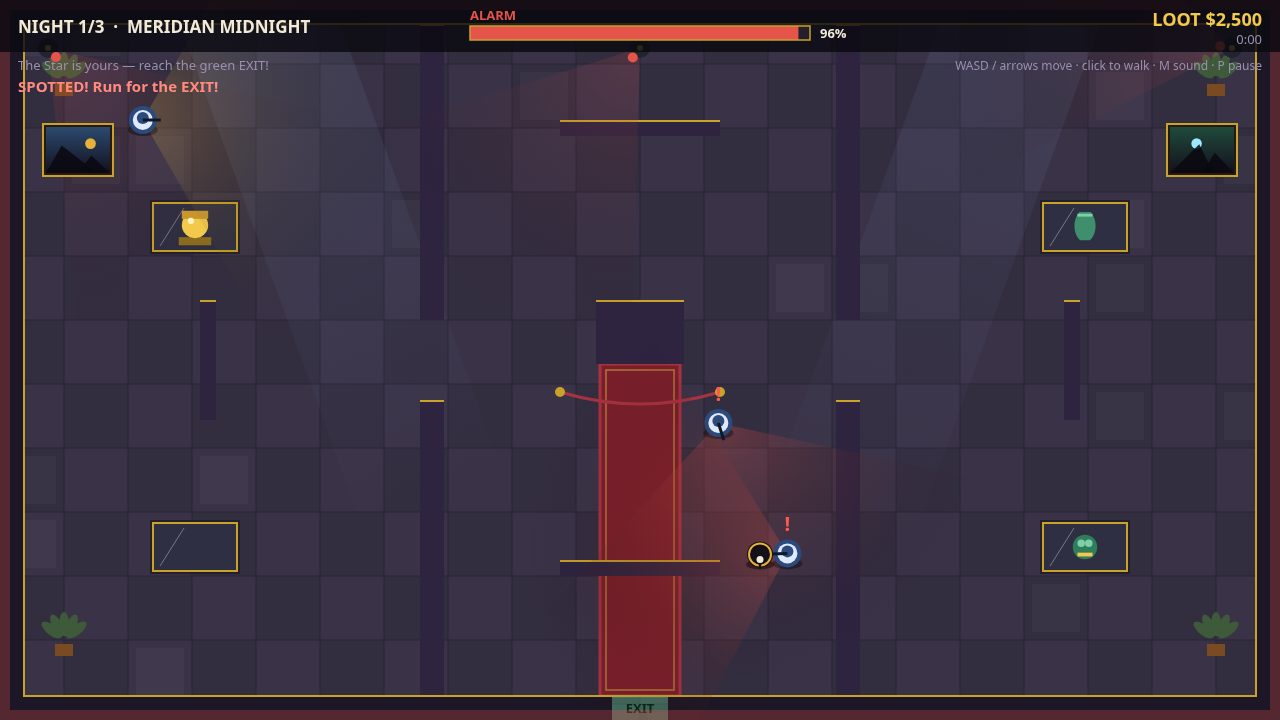
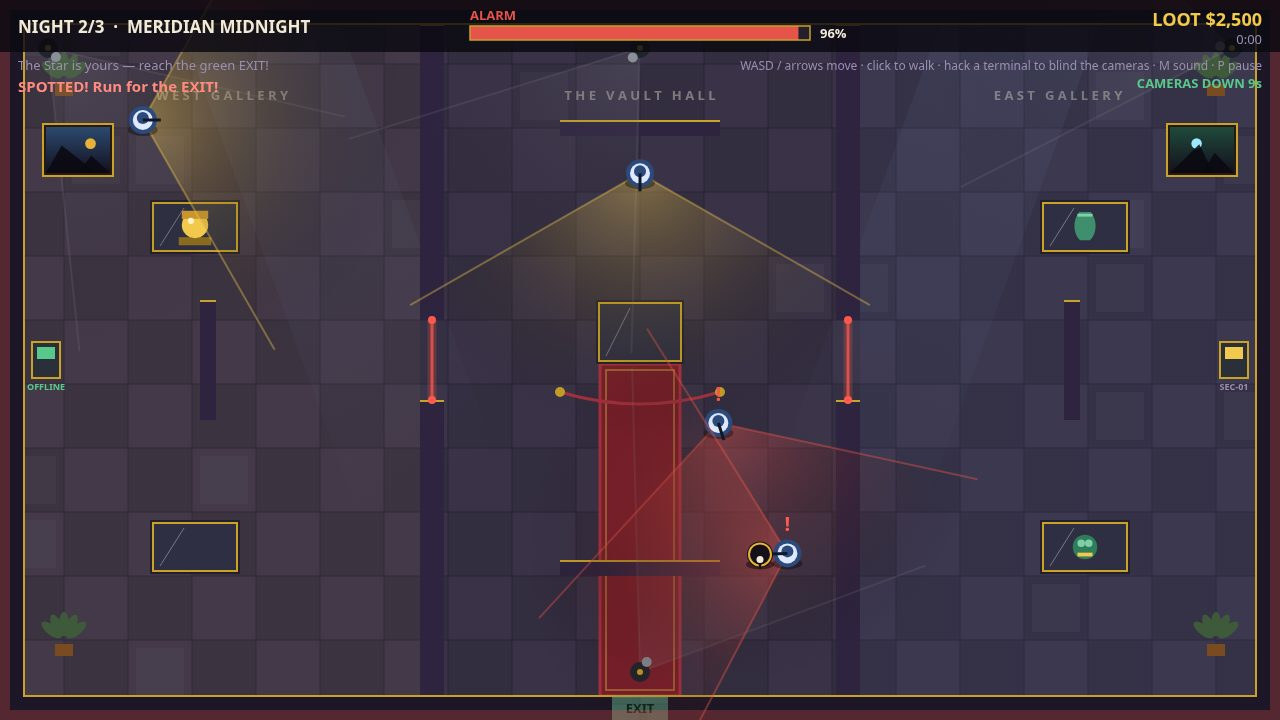
v2: security terminals, named galleries, night-2 chase shot

diff --git a/game/src/render.js b/game/src/render.js
@@ -1,7 +1,7 @@
 // Meridian Midnight: everything the player sees, drawn on one canvas.
 // The room, the cones, the loot, the HUD and every screen, all in 2D.
 
-import { ALARM, CAMERA, FIELD, FONT, GUARD, PALETTE } from './config.js';
+import { ALARM, CAMERA, FIELD, FONT, GUARD, PALETTE, TERMINAL } from './config.js';
 import { SCREEN_BUSTED, SCREEN_CLEAR, SCREEN_PAUSED, SCREEN_PLAY, SCREEN_TITLE, SCREEN_WIN } from './world.js';
 import { mulberry32 } from './random.js';
 
@@ -180,13 +180,13 @@ function drawGuard(ctx, guard, time) {
   }
 }
 
-function drawCamera(ctx, cam) {
-  drawCone(ctx, cam.x, cam.y, cam.angle, CAMERA.coneHalf, CAMERA.coneRange, PALETTE.coneCamera);
+function drawCamera(ctx, cam, down) {
+  drawCone(ctx, cam.x, cam.y, cam.angle, CAMERA.coneHalf, CAMERA.coneRange, down ? PALETTE.coneCameraDown : PALETTE.coneCamera);
   ctx.fillStyle = '#20242e';
   ctx.beginPath();
   ctx.arc(cam.x, cam.y, 10, 0, Math.PI * 2);
   ctx.fill();
-  ctx.fillStyle = cam.seeing ? '#ff5a4e' : '#e5534b';
+  ctx.fillStyle = down ? '#8a8f98' : cam.seeing ? '#ff5a4e' : '#e5534b';
   ctx.beginPath();
   ctx.arc(cam.x + Math.cos(cam.angle) * 12, cam.y + Math.sin(cam.angle) * 12, 5, 0, Math.PI * 2);
   ctx.fill();
@@ -194,6 +194,31 @@ function drawCamera(ctx, cam) {
   ctx.beginPath();
   ctx.arc(cam.x, cam.y, 3, 0, Math.PI * 2);
   ctx.fill();
+  // No OFFLINE label here: the grey cone and the HUD's CAMERAS DOWN badge
+  // already say it, and a label under the top cameras would sit on the
+  // objective line and under the bottom camera on the EXIT sign.
+}
+
+/** A security terminal on the wall: amber while live, green once hacked. */
+function drawTerminal(ctx, terminal, time) {
+  const hacked = terminal.hacked;
+  ctx.fillStyle = PALETTE.terminal;
+  ctx.fillRect(terminal.x - 14, terminal.y - 18, 28, 36);
+  ctx.strokeStyle = '#c9a227';
+  ctx.lineWidth = 2;
+  ctx.strokeRect(terminal.x - 14, terminal.y - 18, 28, 36);
+  ctx.fillStyle = hacked ? PALETTE.terminalHacked : PALETTE.terminalScreen;
+  ctx.fillRect(terminal.x - 9, terminal.y - 13, 18, 12);
+  if (!hacked && Math.sin(time * 4) > 0) {
+    ctx.fillStyle = '#ff5a4e';
+    ctx.beginPath();
+    ctx.arc(terminal.x + 8, terminal.y + 8, 2.5, 0, Math.PI * 2);
+    ctx.fill();
+  }
+  ctx.fillStyle = hacked ? PALETTE.terminalHacked : PALETTE.muted;
+  ctx.font = `bold 9px ${FONT}`;
+  ctx.textAlign = 'center';
+  ctx.fillText(hacked ? 'OFFLINE' : 'SEC-01', terminal.x, terminal.y + 30);
 }
 
 function drawThief(ctx, world, time) {
@@ -229,6 +254,13 @@ function drawThief(ctx, world, time) {
     ctx.arc(t.x, t.y, 22, -Math.PI / 2, -Math.PI / 2 + (t.crack / 1.6) * Math.PI * 2);
     ctx.stroke();
   }
+  if (t.hack > 0) {
+    ctx.strokeStyle = PALETTE.terminalHacked;
+    ctx.lineWidth = 4;
+    ctx.beginPath();
+    ctx.arc(t.x, t.y, 22, -Math.PI / 2, -Math.PI / 2 + (t.hack / TERMINAL.hackSeconds) * Math.PI * 2);
+    ctx.stroke();
+  }
 }
 
 function drawRoom(ctx, world, time) {
@@ -259,6 +291,17 @@ function drawRoom(ctx, world, time) {
     ctx.lineTo(FIELD.width, y);
     ctx.stroke();
   }
+  // The three rooms read apart: warm west gallery, cool east gallery.
+  ctx.fillStyle = PALETTE.zoneWest;
+  ctx.fillRect(24, 24, 396, 672);
+  ctx.fillStyle = PALETTE.zoneEast;
+  ctx.fillRect(860, 24, 396, 672);
+  ctx.fillStyle = 'rgba(242, 234, 216, 0.4)';
+  ctx.font = `bold 13px ${FONT}`;
+  ctx.textAlign = 'center';
+  ctx.fillText('W E S T   G A L L E R Y', 222, 100);
+  ctx.fillText('T H E   V A U L T   H A L L', 640, 100);
+  ctx.fillText('E A S T   G A L L E R Y', 1058, 100);
   // Red carpet from the entrance to the diamond case.
   ctx.fillStyle = PALETTE.carpet;
   ctx.fillRect(600, 364, 80, 332);
@@ -398,6 +441,11 @@ function drawHud(ctx, world) {
   const mins = Math.floor(world.time / 60);
   const secs = Math.floor(world.time % 60);
   ctx.fillText(`${mins}:${String(secs).padStart(2, '0')}`, 1262, 44);
+  if (world.camerasDown > 0) {
+    ctx.fillStyle = PALETTE.terminalHacked;
+    ctx.font = `bold 13px ${FONT}`;
+    ctx.fillText(`CAMERAS DOWN ${Math.ceil(world.camerasDown)}s`, 1262, 88);
+  }
   // Objective and messages.
   const diamond = world.loot.find((l) => l.kind === 'diamond');
   ctx.textAlign = 'left';
@@ -413,7 +461,7 @@ function drawHud(ctx, world) {
   ctx.fillStyle = PALETTE.muted;
   ctx.font = `12px ${FONT}`;
   ctx.textAlign = 'right';
-  ctx.fillText('WASD / arrows move · click to walk · M sound · P pause', 1262, 70);
+  ctx.fillText('WASD / arrows move · click to walk · hack a terminal to blind the cameras · M sound · P pause', 1262, 70);
 }
 
 function drawParticles(ctx, world) {
@@ -493,7 +541,8 @@ export function render(ctx, world, time, best) {
   ctx.clearRect(0, 0, FIELD.width, FIELD.height);
   drawRoom(ctx, world, time);
   drawLasers(ctx, world, time);
-  for (const cam of world.cameras) drawCamera(ctx, cam);
+  for (const terminal of world.terminals) drawTerminal(ctx, terminal, time);
+  for (const cam of world.cameras) drawCamera(ctx, cam, world.camerasDown > 0);
   for (const loot of world.loot) drawLoot(ctx, loot, time);
   for (const guard of world.guards) drawGuard(ctx, guard, time);
   drawThief(ctx, world, time);
@@ -525,7 +574,7 @@ export function render(ctx, world, time, best) {
     ctx.fillText('One thief. One diamond. Three nights in the Meridian Museum.', FIELD.width / 2, 375);
     ctx.fillStyle = PALETTE.text;
     ctx.font = `17px ${FONT}`;
-    ctx.fillText('Dodge the guards’ cones, slip past the cameras, crack the case — and vanish.', FIELD.width / 2, 410);
+    ctx.fillText('Dodge the guards’ cones, hack a terminal to blind the cameras, crack the case — and vanish.', FIELD.width / 2, 410);
     ctx.fillStyle = PALETTE.gold;
     ctx.font = `bold 20px ${FONT}`;
     ctx.fillText('Press ENTER to begin the heist', FIELD.width / 2, 470);

diff --git a/game/src/world.js b/game/src/world.js
@@ -1,7 +1,7 @@
 // Meridian Midnight: the museum, its guards, cameras, lasers and loot.
 // One fixed step of simulation, pure rules, no drawing and no input devices.
 
-import { ALARM, CAMERA, FIELD, GUARD, LOOT_VALUES, NIGHTS, STEP, THIEF } from './config.js';
+import { ALARM, CAMERA, FIELD, GUARD, LOOT_VALUES, NIGHTS, STEP, TERMINAL, THIEF } from './config.js';
 import { angleDiff, angleTo, clamp, dist, mulberry32 } from './random.js';
 
 /** Screens the game can be on. */
@@ -130,6 +130,10 @@ function makeCamera(x, y, baseAngle, phase) {
   return { x, y, baseAngle, angle: baseAngle, phase, seeing: false };
 }
 
+function makeTerminal(x, y) {
+  return { x, y, radius: TERMINAL.radius, hacked: false };
+}
+
 /** A fresh world for one night. Night 1, 2 and 3 add guards, a camera and lasers. */
 export function createWorld(night, seed) {
   const rng = mulberry32(seed);
@@ -162,7 +166,11 @@ export function createWorld(night, seed) {
     guards,
     cameras,
     lasers,
-    thief: { x: 640, y: 660, radius: THIEF.radius, crack: 0, moving: false, face: -Math.PI / 2 },
+    // One security terminal on each side wall: hack one and every camera
+    // goes blind for a while, so the middle of the hall is safe to cross.
+    terminals: [makeTerminal(46, 360), makeTerminal(1234, 360)],
+    camerasDown: 0,
+    thief: { x: 640, y: 660, radius: THIEF.radius, crack: 0, hack: 0, moving: false, face: -Math.PI / 2 },
     alarm: 0,
     alarmPeak: 0,
     lockdown: 0,
@@ -264,11 +272,34 @@ export function stepWorld(world, input, dt) {
   }
   if (!nearDiamond) thief.crack = Math.max(0, thief.crack - dt * 1.5);
 
-  // --- Cameras sweep and watch.
+  // --- Terminals: stand at one and hold still to hack it; every camera
+  // goes blind for TERMINAL.downSeconds. One hack per terminal per night.
+  let nearTerminal = null;
+  for (const terminal of world.terminals) {
+    if (terminal.hacked) continue;
+    if (dist(thief.x, thief.y, terminal.x, terminal.y) < TERMINAL.hackRange) nearTerminal = terminal;
+  }
+  if (nearTerminal) {
+    thief.hack += dt;
+    if (thief.hack >= TERMINAL.hackSeconds) {
+      nearTerminal.hacked = true;
+      thief.hack = 0;
+      world.camerasDown = TERMINAL.downSeconds;
+      burst(world, nearTerminal.x, nearTerminal.y, '#58c98a', 20);
+      world.floaters.push({ x: nearTerminal.x, y: nearTerminal.y - 24, text: 'CAMERAS DOWN', life: 1.6, max: 1.6 });
+      world.message = 'Security terminal hacked — cameras down for 12 seconds!';
+      world.messageTimer = 3;
+    }
+  } else {
+    thief.hack = Math.max(0, thief.hack - dt * 1.5);
+  }
+  if (world.camerasDown > 0) world.camerasDown -= dt;
+
+  // --- Cameras sweep and watch (blind while camerasDown runs).
   let seenByCamera = false;
   for (const cam of world.cameras) {
     cam.angle = cam.baseAngle + Math.sin(world.time * CAMERA.sweepSpeed + cam.phase) * CAMERA.sweepHalf;
-    cam.seeing = canSee({ x: cam.x, y: cam.y, angle: cam.angle }, CAMERA.coneRange, CAMERA.coneHalf, world);
+    cam.seeing = world.camerasDown > 0 ? false : canSee({ x: cam.x, y: cam.y, angle: cam.angle }, CAMERA.coneRange, CAMERA.coneHalf, world);
     if (cam.seeing) seenByCamera = true;
   }
 

diff --git a/game/src/config.js b/game/src/config.js
@@ -14,6 +14,17 @@ export const THIEF = {
   crackSeconds: 1.6,
 };
 
+/** Security terminals: stand at one and hold still to hack it. */
+export const TERMINAL = {
+  radius: 16,
+  /** How close Rook must stand to hack a terminal. */
+  hackRange: 52,
+  /** Seconds of standing at a terminal to take the cameras down. */
+  hackSeconds: 2,
+  /** Seconds every camera stays blind after a hack. */
+  downSeconds: 12,
+};
+
 export const GUARD = {
   radius: 14,
   patrolSpeed: 72,
@@ -40,8 +51,7 @@ export const CAMERA = {
   sweepHalf: 0.85,
 };
 
-export const ALARM = {
-  /** Per second while any guard sees Rook. */
+export const ALARM = {  /** Per second while any guard sees Rook. */
   guardRate: 42,
   /** Per second while any camera sees Rook. */
   cameraRate: 26,
@@ -84,6 +94,12 @@ export const PALETTE = {
   coneGuard: 'rgba(242, 201, 76, 0.38)',
   coneGuardAlert: 'rgba(229, 83, 75, 0.42)',
   coneCamera: 'rgba(229, 83, 75, 0.30)',
+  coneCameraDown: 'rgba(140, 140, 150, 0.16)',
+  terminal: '#2a2f3a',
+  terminalScreen: '#f2c94c',
+  terminalHacked: '#58c98a',
+  zoneWest: 'rgba(242, 180, 90, 0.05)',
+  zoneEast: 'rgba(90, 160, 242, 0.05)',
   hud: 'rgba(10, 8, 16, 0.82)',
   text: '#f2ead8',
   muted: '#9a8fb0',

diff --git a/game/src/shots.js b/game/src/shots.js
@@ -72,10 +72,14 @@ export function stageShot(name, world) {
     return { screen: SCREEN_PLAY };
   }
   if (name === 'chase') {
+    // Night 2: five guards, four cameras, two lasers — and Rook has just
+    // hacked the west terminal, so the cameras are blind while he runs.
     world.status = SCREEN_PLAY;
     const diamond = world.loot.find((l) => l.kind === 'diamond');
     diamond.taken = true;
     world.lootValue += diamond.value;
+    world.terminals[0].hacked = true;
+    world.camerasDown = 9;
     world.thief.x = 760;
     world.thief.y = 480;
     world.alarm = 84;

diff --git a/game/src/main.js b/game/src/main.js
@@ -15,10 +15,11 @@ const ctx = canvas.getContext('2d');
 const params = new URLSearchParams(window.location.search);
 const shotName = params.get('shot');
 const seed = Number(params.get('seed') || 1) || 1;
+const night = Number(params.get('night') || 1) || 1;
 
 const audio = createAudio();
 const input = createInput();
-let world = createWorld(1, seed);
+let world = createWorld(night, seed);
 let best = 0;
 try {
   best = Number(window.localStorage.getItem(BEST_KEY) || 0) || 0;

diff --git a/README.md b/README.md
@@ -4,7 +4,7 @@
 [![rank](https://make.fun/badge/best-heist-game-20261122-0559/0xdirosa/best-heist-game/rank.svg)](https://make.fun/bounty/best-heist-game-20261122-0559/leaderboard?utm_source=github&utm_medium=readme&utm_campaign=best-heist-game-20261122-0559)
 [![reward](https://make.fun/badge/best-heist-game-20261122-0559/0xdirosa/best-heist-game/reward.svg)](https://make.fun/bounty/best-heist-game-20261122-0559?utm_source=github&utm_medium=readme&utm_campaign=best-heist-game-20261122-0559)
 
-One thief. One diamond. Three nights in the Meridian Museum. A top-down stealth heist game: dodge guard vision cones, slip past sweeping cameras and blinking lasers, crack the case holding the Star of Meridian diamond, grab the rest of the loot, and vanish through the green EXIT before the alarm hits lockdown.
+One thief. One diamond. Three nights in the Meridian Museum. A top-down stealth heist game: dodge guard vision cones, hack a security terminal to blind the cameras, slip past sweeping cameras and blinking lasers, crack the case holding the Star of Meridian diamond, grab the rest of the loot, and vanish through the green EXIT before the alarm hits lockdown.
 
 ## Run it
 
@@ -18,7 +18,7 @@ Then open http://localhost:8080 in a desktop browser. No build step, no network 
 
 - **WASD / arrow keys** move Rook, or **click** anywhere to walk there
 - **Guards** patrol the galleries — their yellow cones are what they can see. Get spotted and the alarm climbs; stay hidden and it falls.
-- **Cameras** sweep the halls with red cones. **Lasers** (Night 2+) blink across the doorways — crossing a lit beam spikes the alarm.
+- **Cameras** sweep the halls with red cones. Stand at a **security terminal** (one on each side wall) and hold still for 2 seconds to hack it: every camera goes blind for 12 seconds, so the middle of the hall is safe to cross. **Lasers** (Night 2+) blink across the doorways — crossing a lit beam spikes the alarm.
 - Touch paintings, the golden bust, the vase and the idol to pocket them. Stand at the diamond case to crack it.
 - At **100% alarm** the museum locks down and every guard runs at you. If one catches you, the night is over.
 - Steal the diamond, then reach the green **EXIT**. Clear all three nights for the Perfect Heist — and keep the alarm under 50% for the $500 Ghost bonus.
